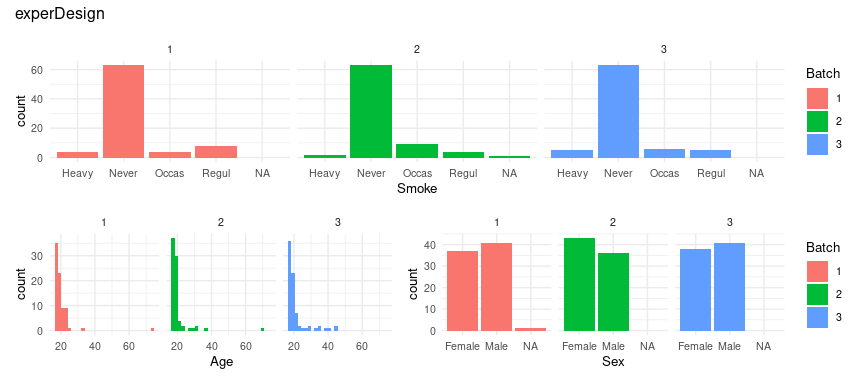
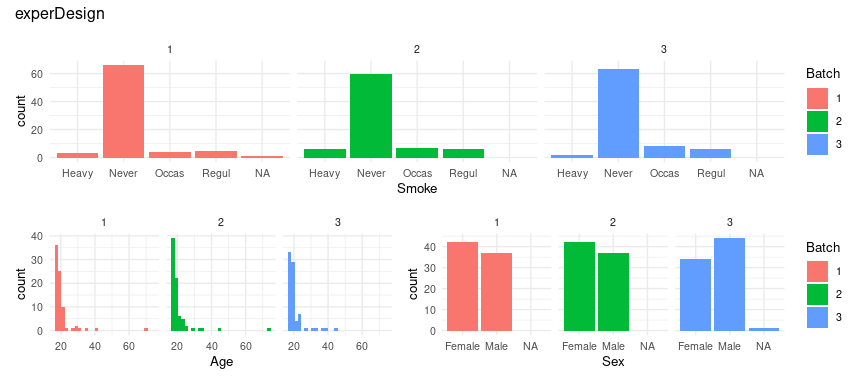
Update code with figures

diff --git a/paper.md b/paper.md
@@ -275,16 +275,16 @@ evaluate_na(experDesign_index, survey[, VoI])
 ## 0.4444444 0.4444444 0.0000000
 evaluate_entropy(experDesign_index, survey[, VoI])
 ##        Sex      Smoke 
-## 0.00286977 0.49312642
+## 0.00589071 0.49227878
 evaluate_mad(experDesign_index, survey[, VoI])
 ##      Age 
-## 25.86297
+## 25.94501
 evaluate_sd(experDesign_index, survey[, VoI])
-##       Age 
-## 0.1469049
+##      Age 
+## 0.983568
 evaluate_mean(experDesign_index, survey[, VoI])
-##       Age 
-## 0.4121125
+##        Age 
+## 0.08579466
 # All together for each batch
 ei <- evaluate_index(experDesign_index, survey[, VoI])
 ei[, , "SubSet1"]
@@ -294,26 +294,26 @@ evaluate_na(experDesign_index_spatial, survey[, VoI])
 ## 0.02061632 0.02061632 0.00000000
 evaluate_entropy(experDesign_index_spatial, survey[, VoI])
 ##       Sex     Smoke 
-## 0.3648235 1.0000000
+## 0.4143536 1.0000000
 evaluate_mad(experDesign_index_spatial, survey[, VoI])
 ##      Age 
-## 25.66835
+## 25.75065
 evaluate_sd(experDesign_index_spatial, survey[, VoI])
 ##      Age 
-## 5.227784
+## 5.071823
 evaluate_mean(experDesign_index_spatial, survey[, VoI])
-##      Age 
-## 2.237893
+##    Age 
+## 2.2549
 # All together for each batch
 ei <- evaluate_index(experDesign_index_spatial, survey[, VoI])
 ei[, , "G1"]
 ##          variables
-## stat            Sex     Smoke        Age
-##   mean    0.0000000 0.0000000 19.8056667
-##   sd      0.0000000 0.0000000  0.3466776
-##   mad     0.0000000 0.0000000  0.2461116
-##   na      0.0000000 0.0000000  0.0000000
-##   entropy 0.9182958 0.9182958  0.0000000
+## stat            Sex     Smoke       Age
+##   mean    0.0000000 0.0000000 21.305667
+##   sd      0.0000000 0.0000000  3.700851
+##   mad     0.0000000 0.0000000  2.100844
+##   na      0.0000000 0.0000000  0.000000
+##   entropy 0.9182958 0.9182958  0.000000
 ```
 
 We can also compare our results with the original distribution:
@@ -337,7 +337,7 @@ The rest of the workflow is similar to the above example:
 
 ```r
 extreme_cases(survey[, VoI], size = 5)
-## [1]  62 103 171 176 192
+## [1]  16  66  99 171 195
 replicates_index <- replicates(pheno = survey[, VoI], 
                                size_subset = size_subset, controls = 5, 
                                iterations = iterations)
@@ -352,21 +352,21 @@ report_replicates_position <- inspect(i = spatial_replicate_index,
 # Batch and position where the samples should be:
 head(report_replicates_position)
 ##      Sex Smoke    Age ID   batch position
-## 1 Female Never 18.250  1 SubSet1       B7
-## 2   Male Regul 17.583  2 SubSet1       C5
-## 3   Male Occas 16.917  3 SubSet1       D8
-## 4   Male Never 20.333  4 SubSet2       A3
-## 5   Male Never 23.667  5 SubSet1       E3
-## 6 Female Never 21.000  6 SubSet1       C5
+## 1 Female Never 18.250  1 SubSet3       F8
+## 2   Male Regul 17.583  2 SubSet3       F4
+## 3   Male Occas 16.917  3 SubSet3       G8
+## 4   Male Never 20.333  4 SubSet2       A4
+## 5   Male Never 23.667  5 SubSet3       E4
+## 6 Female Never 21.000  6 SubSet2       G1
 # Technical replicates:
 head(report_replicates_position[duplicated(report_replicates_position$ID), ])
 ##         Sex Smoke    Age ID   batch position
-## 11.3 Female Never 28.500 11 SubSet1       F4
-## 11.4 Female Never 28.500 11 SubSet1      C12
-## 11.1 Female Never 28.500 11 SubSet2      A12
-## 11.2 Female Never 28.500 11 SubSet3      H11
-## 20.1   Male Never 17.917 20 SubSet3       D3
-## 20.2   Male Never 17.917 20 SubSet3      G12
+## 7.3    Male Never 18.833  7 SubSet1       C7
+## 7.4    Male Never 18.833  7 SubSet1      G11
+## 7.1    Male Never 18.833  7 SubSet2       E3
+## 7.2    Male Never 18.833  7 SubSet3       A4
+## 75.1 Female Never 17.750 75 SubSet3       B9
+## 75.2 Female Never 17.750 75 SubSet3      E11
 ```
 
 ***experDesign*** also provides several small utilities to make it easier to design the experiment in batches.
